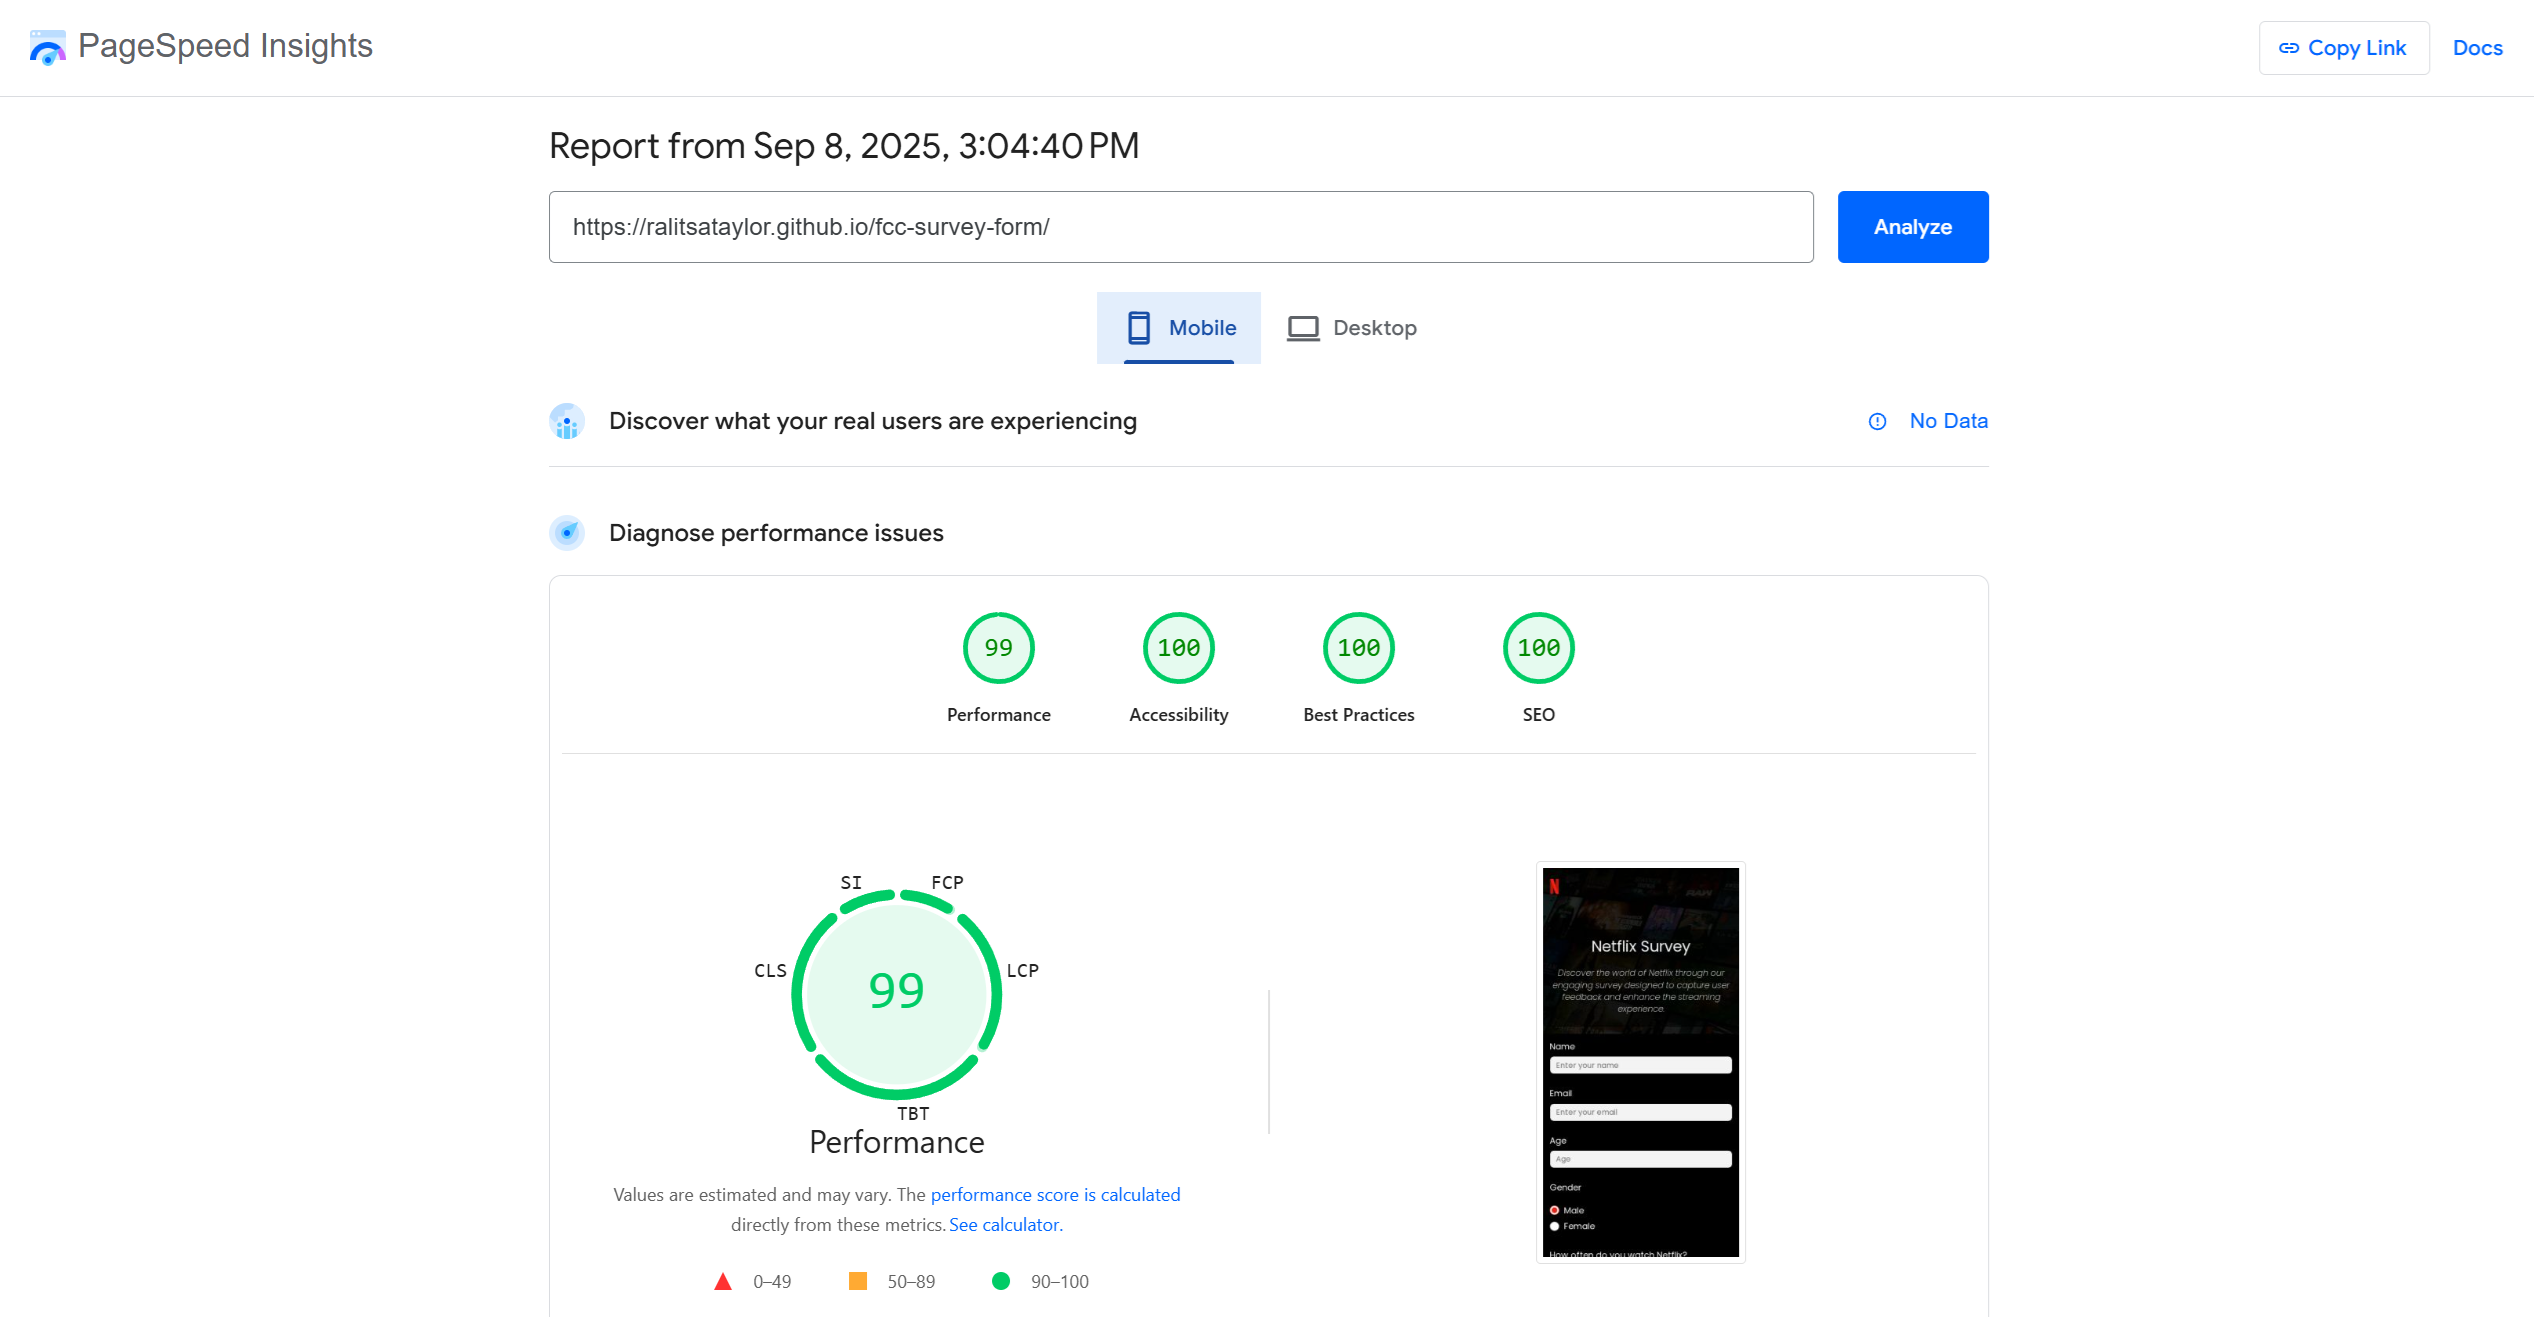
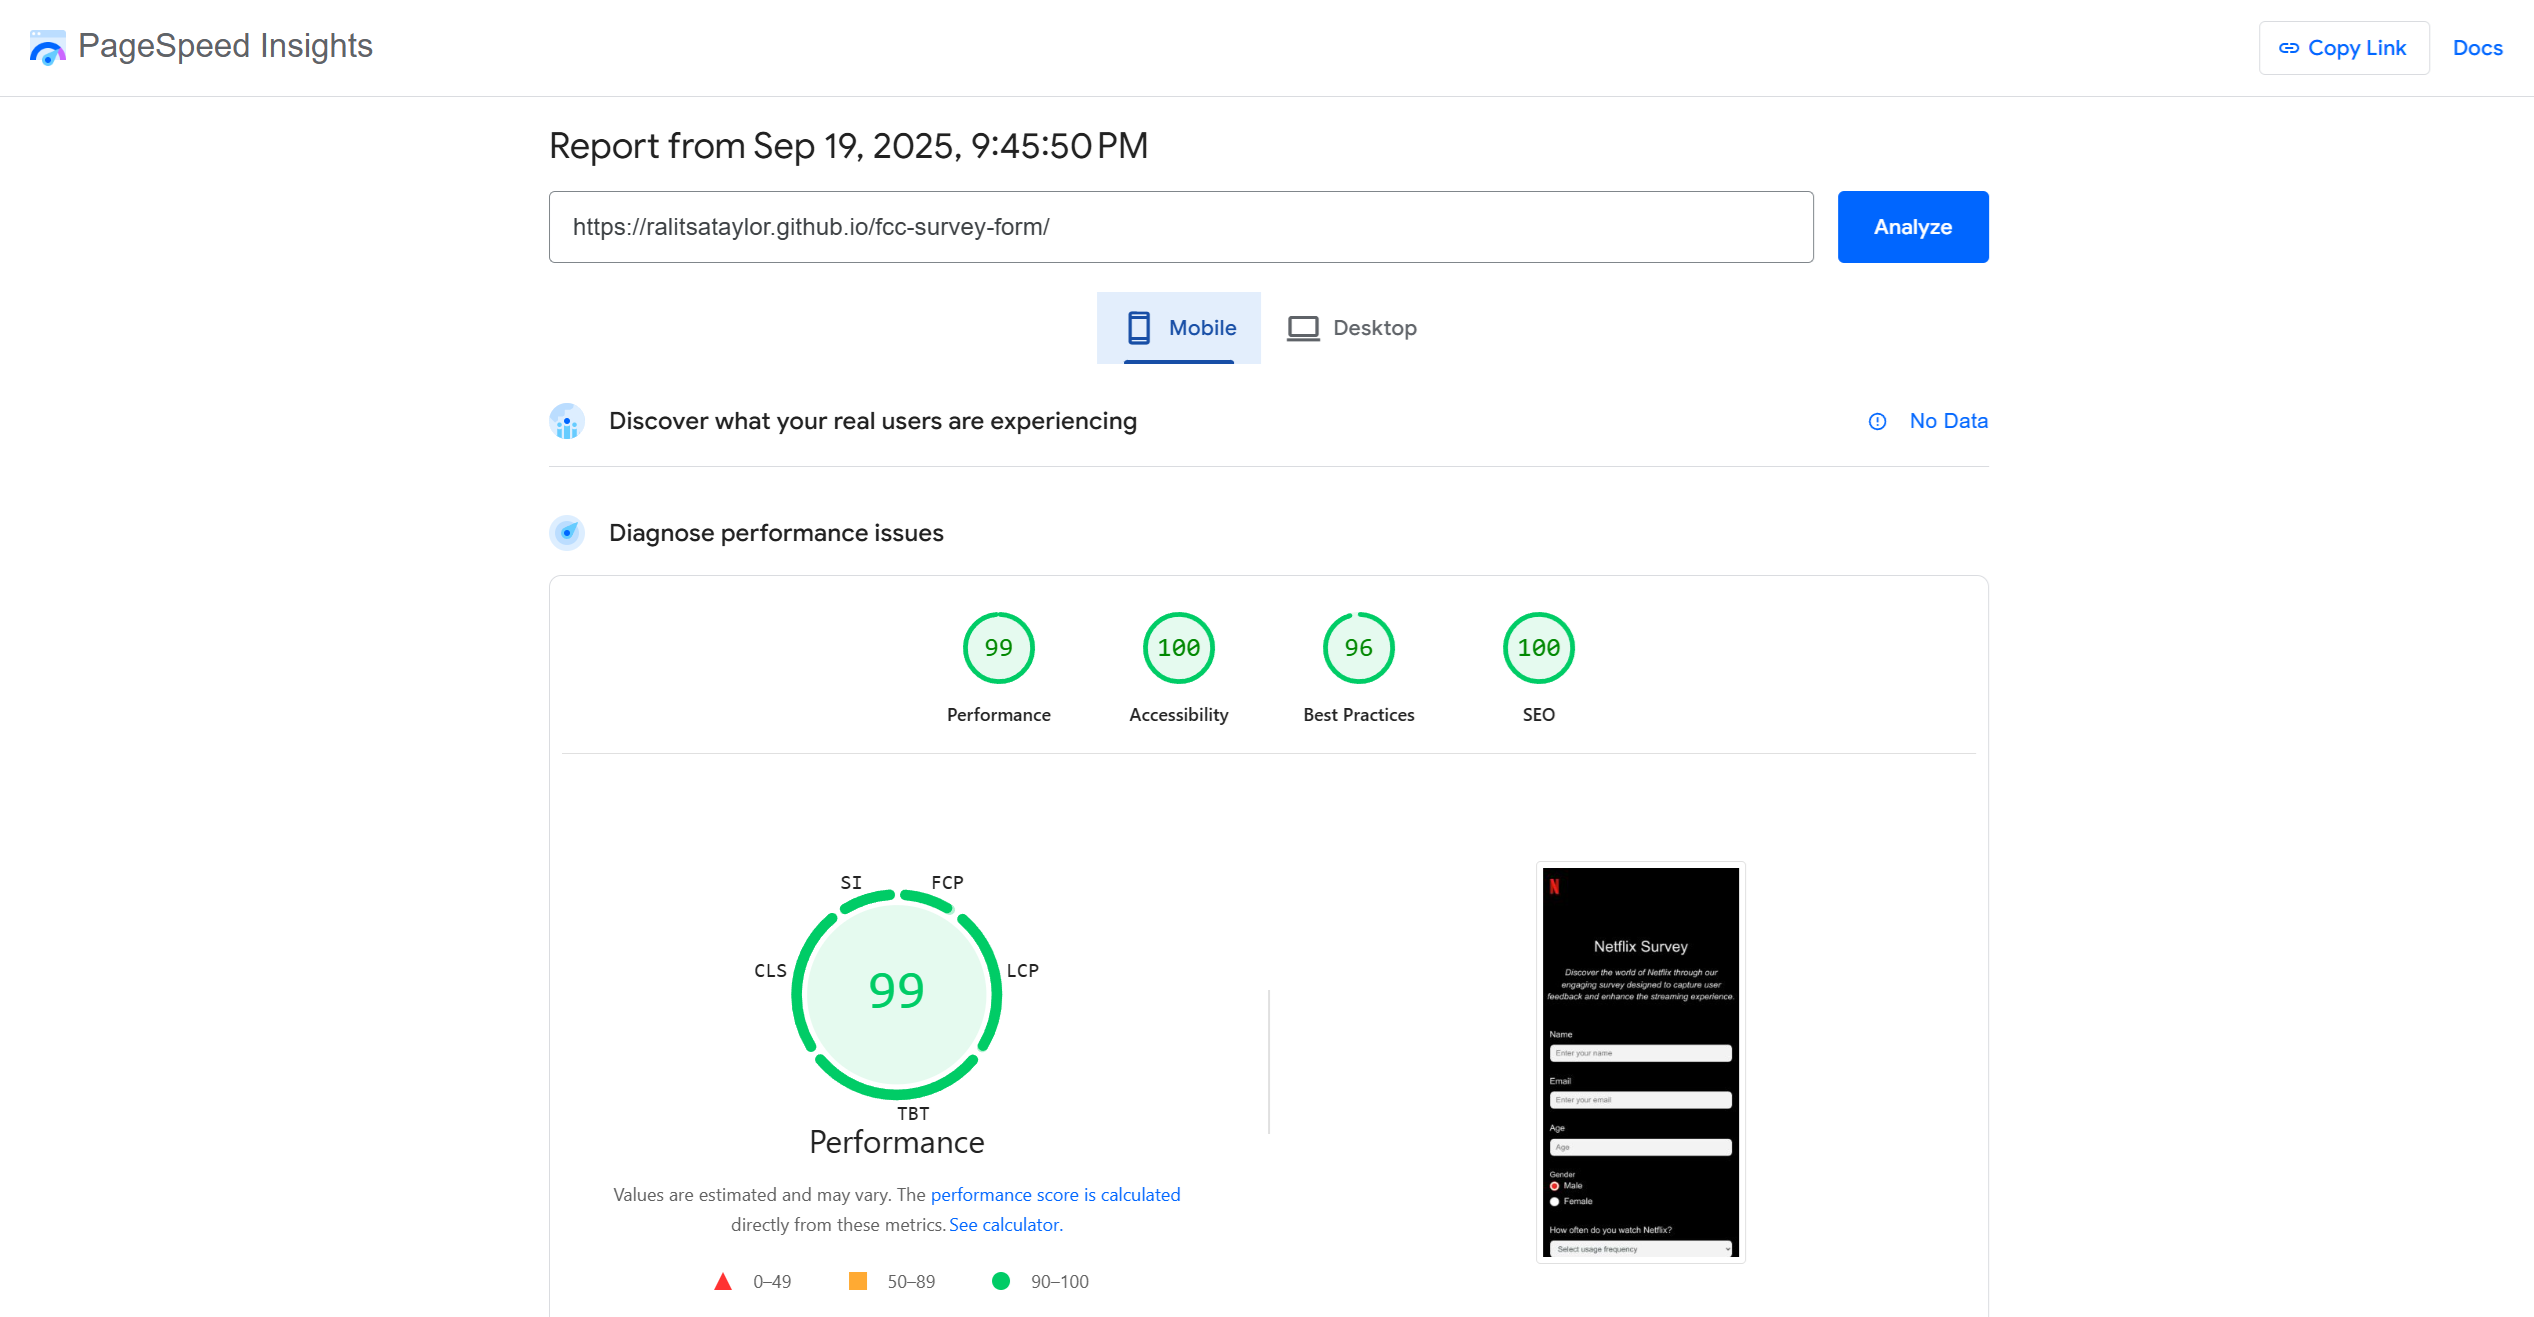
Updates

Changed region(s): [[0.5923, 0.6849, 0.6859, 0.9651], [0.3118, 0.0934, 0.4676, 0.1245], [0.53, 0.467, 0.5612, 0.4981]]

diff --git a/index.html b/index.html
@@ -57,19 +57,19 @@
         background-size: 100vh;
         background-position: top, top center, center center, bottom center;
         background-repeat: no-repeat, no-repeat, no-repeat, no-repeat;
-        background-image: linear-gradient(rgba(0,0,0,.8),rgba(0,0,0,.8)), url('../img/img-1-small.jpg'), url('../img/img-1-small.jpg'), url('../img/img-1-small.jpg');
+        background-image: linear-gradient(rgba(0,0,0,.8),rgba(0,0,0,.8)), url('img/img-1-small.jpg'), url('img/img-1-small.jpg'), url('img/img-1-small.jpg');
         min-height: 100vh;
       }
       @media (min-width: 576px) {
         .main {
           background-size: 163vh !important;
-          background-image: linear-gradient(rgba(0,0,0,.8),rgba(0,0,0,.8)), url('../img/img-1-medium.jpg'), url('../img/img-1-medium.jpg'), url('../img/img-1-medium.jpg');
+          background-image: linear-gradient(rgba(0,0,0,.8),rgba(0,0,0,.8)), url('img/img-1-medium.jpg'), url('img/img-1-medium.jpg'), url('img/img-1-medium.jpg');
         }
       }
       @media (min-width: 1280px) {
         .main {
           background-size: auto !important;
-          background-image: linear-gradient(rgba(0,0,0,.8),rgba(0,0,0,.8)), url('../img/img-1-large.jpg'), url('../img/img-1-large.jpg'), url('../img/img-1-large.jpg');
+          background-image: linear-gradient(rgba(0,0,0,.8),rgba(0,0,0,.8)), url('img/img-1-large.jpg'), url('img/img-1-large.jpg'), url('img/img-1-large.jpg');
         }
       }
       .container {
